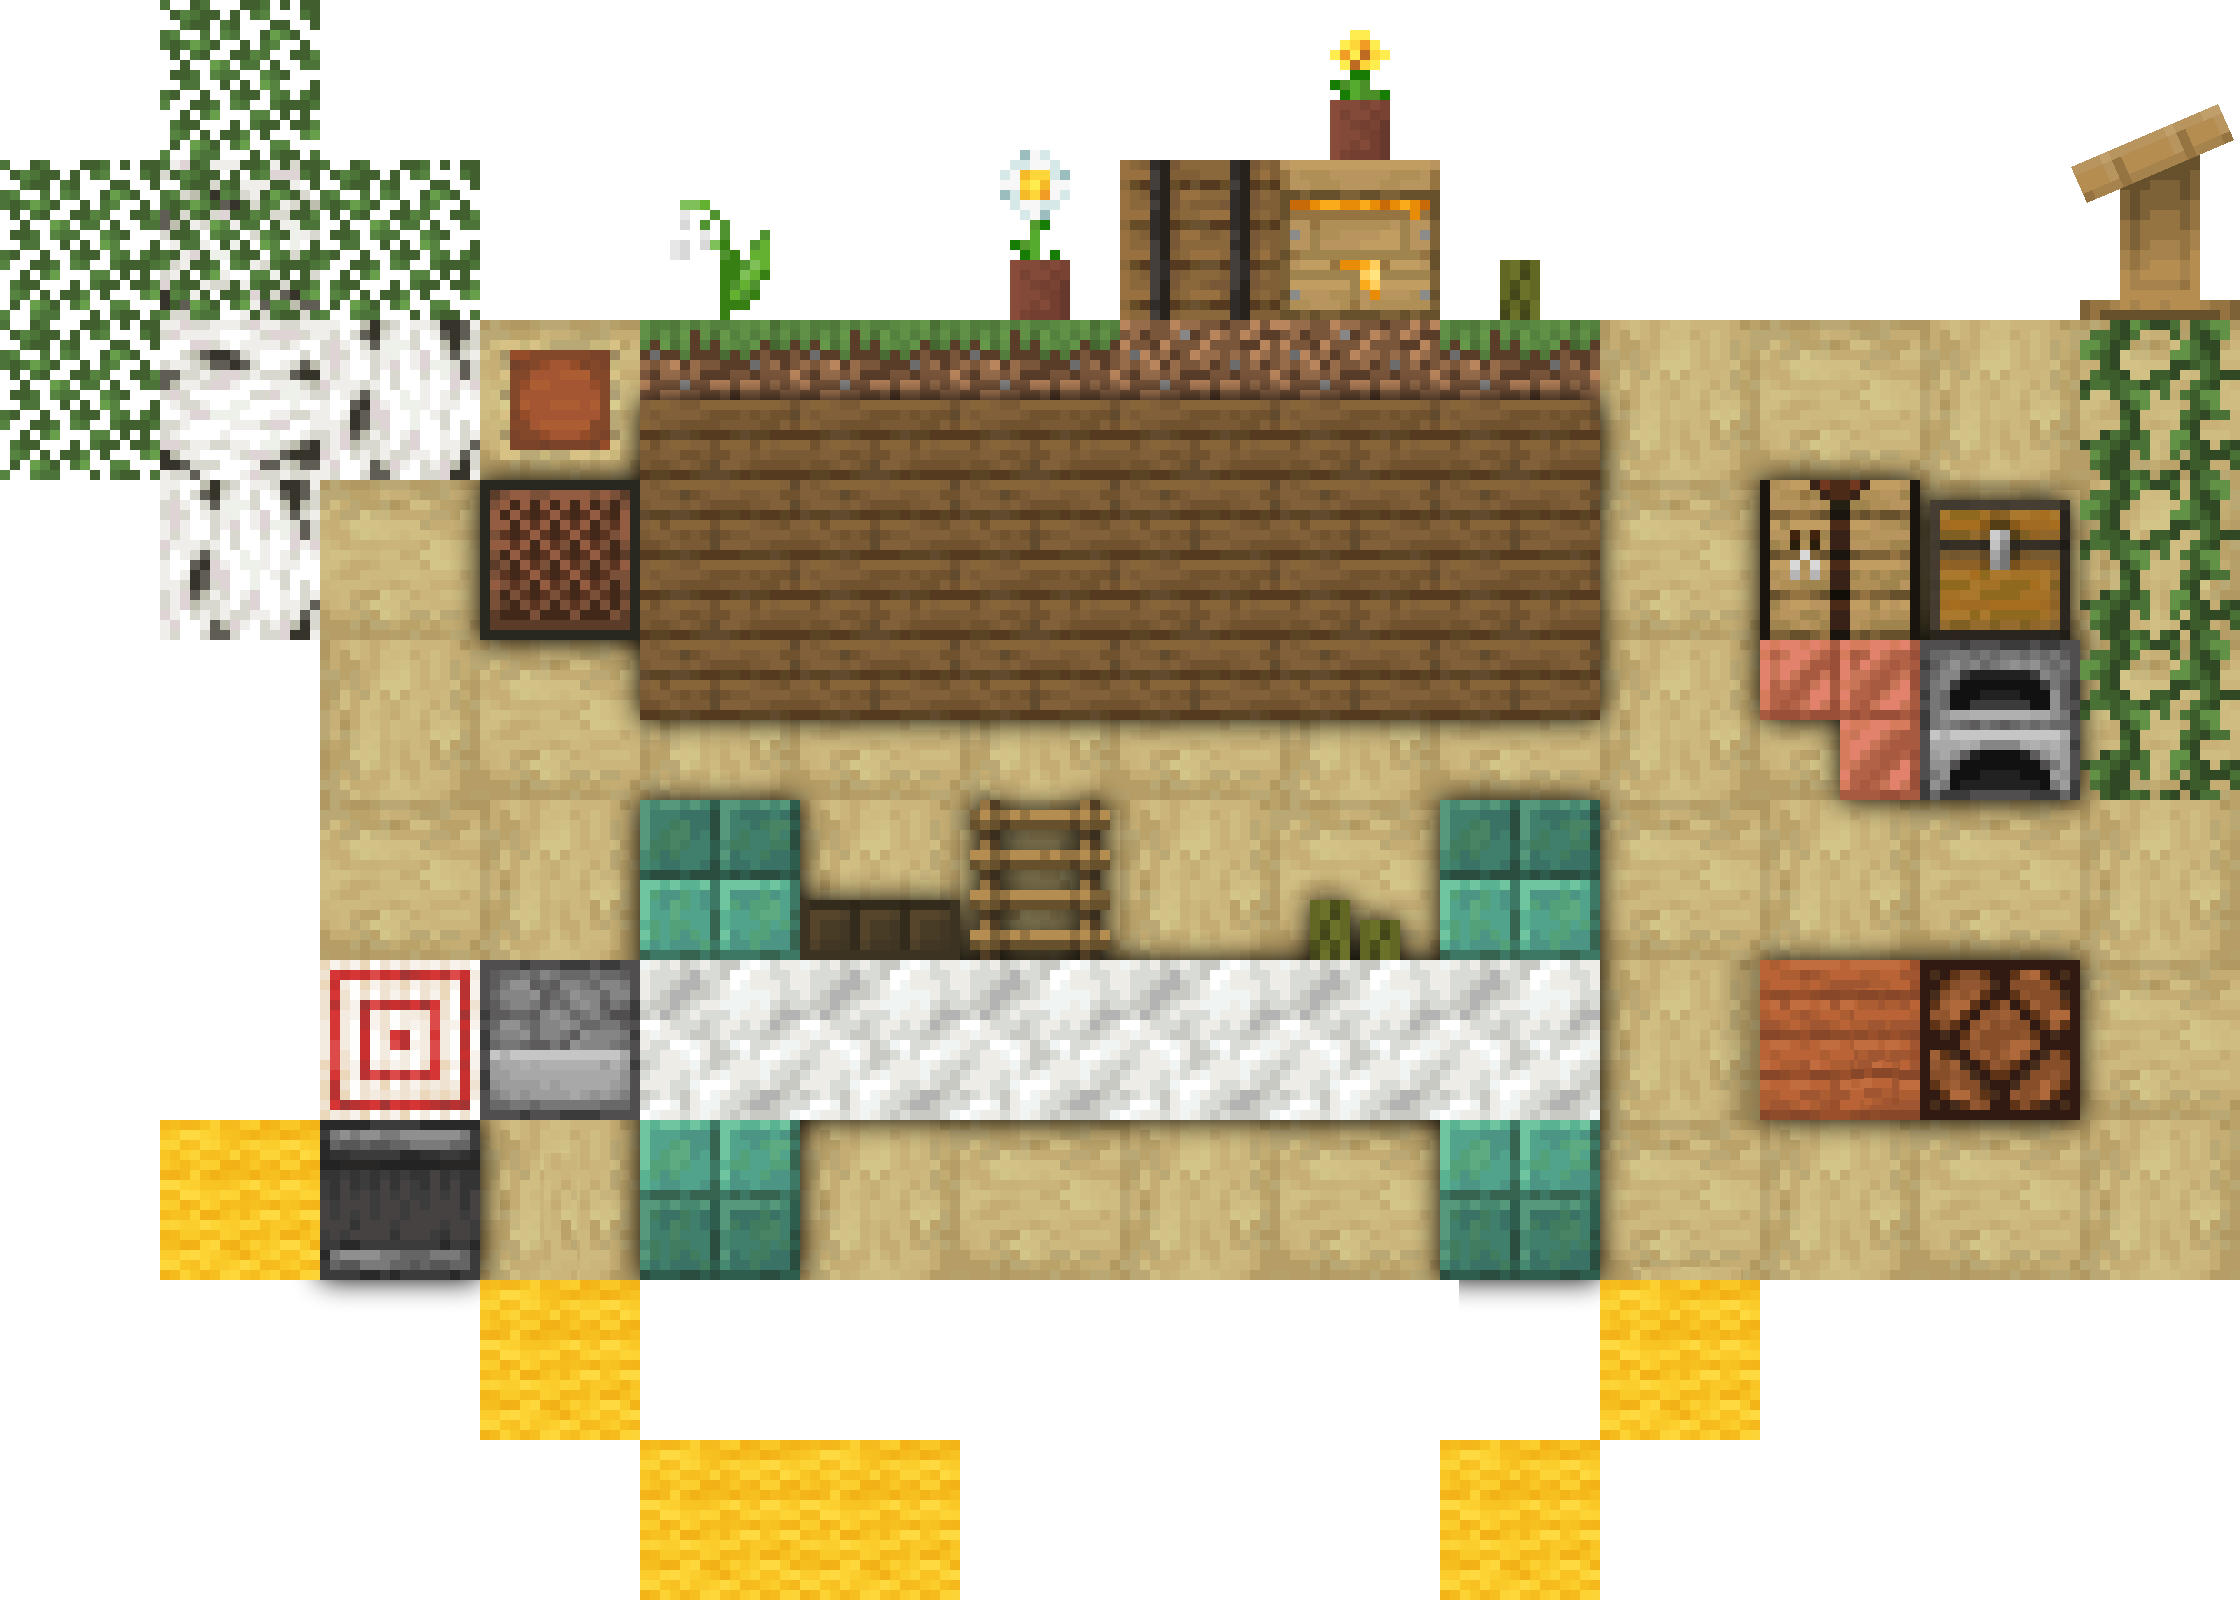
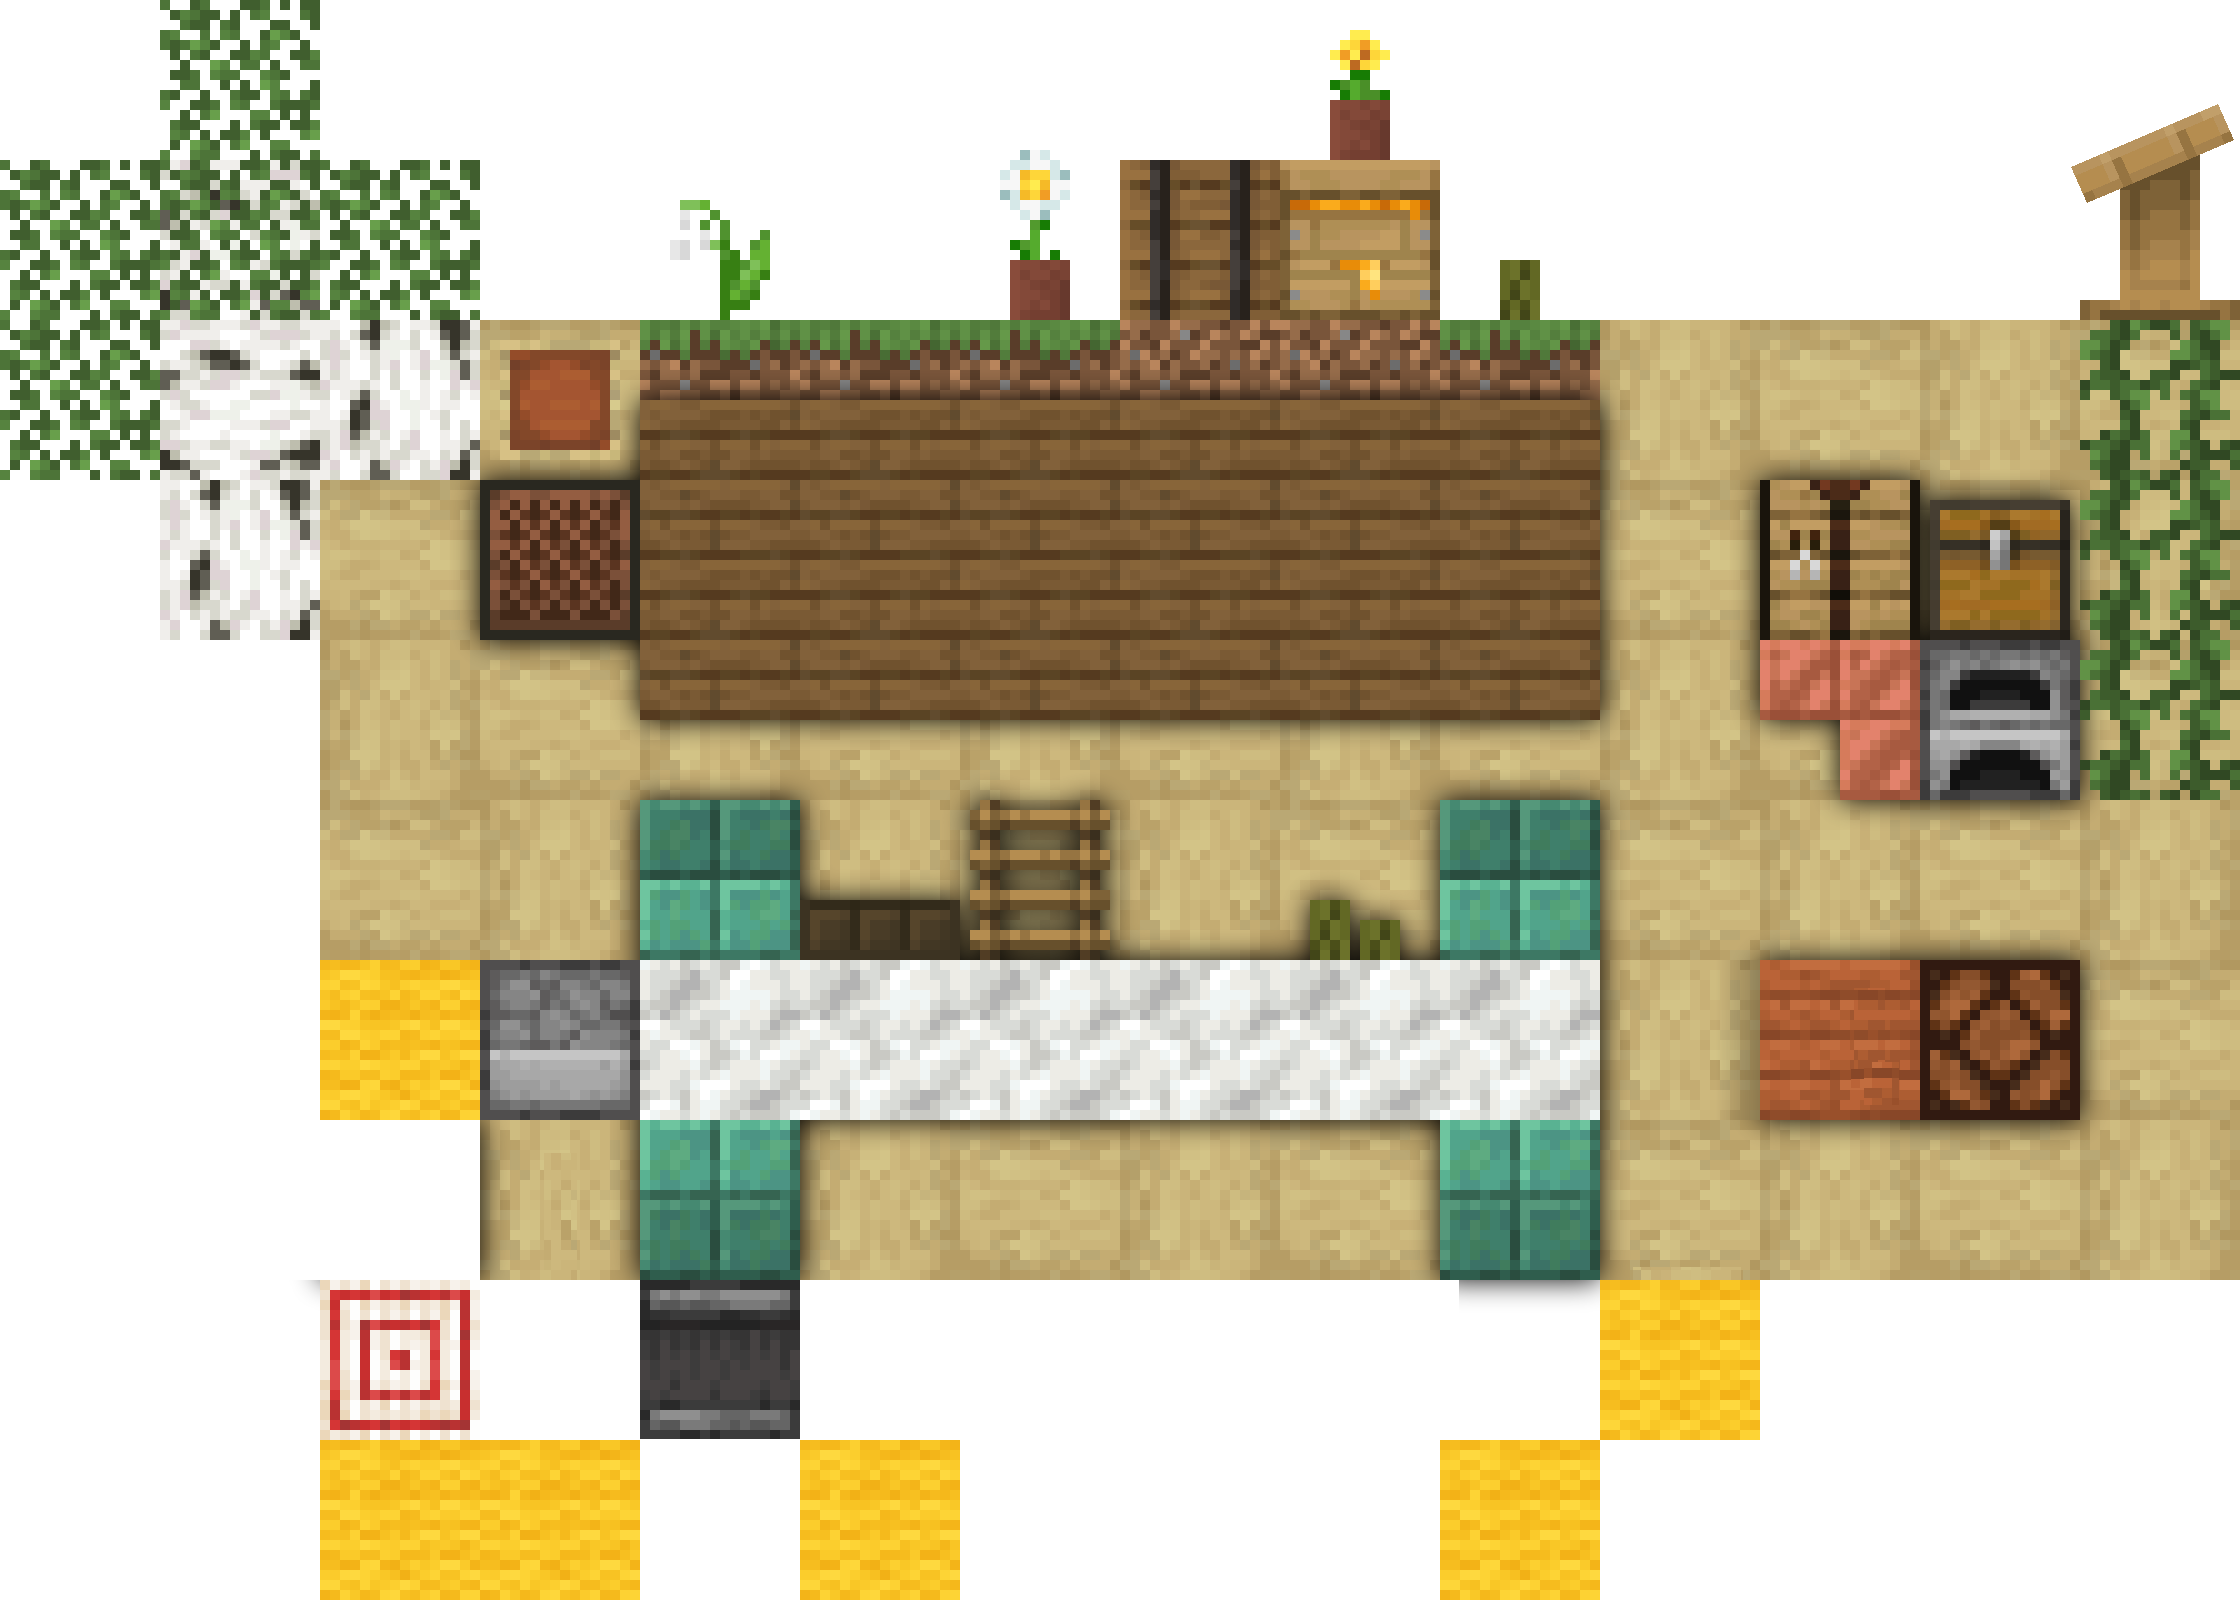
Start animation work

Changed region(s): [[0.0625, 0.5938, 0.375, 1.0]]

diff --git a/src/main/java/me/melonboy10/midi2building/GeneratorApplication.java b/src/main/java/me/melonboy10/midi2building/GeneratorApplication.java
@@ -1,35 +1,33 @@
 package me.melonboy10.midi2building;
 
+import javafx.animation.KeyFrame;
+import javafx.animation.Timeline;
+import javafx.animation.Transition;
+import javafx.animation.TranslateTransition;
 import javafx.application.Application;
-import javafx.event.ActionEvent;
-import javafx.event.EventHandler;
 import javafx.geometry.HPos;
 import javafx.geometry.VPos;
 import javafx.scene.Scene;
-import javafx.scene.canvas.Canvas;
-import javafx.scene.control.Button;
-import javafx.scene.control.Label;
 import javafx.scene.image.Image;
 import javafx.scene.image.ImageView;
 import javafx.scene.input.MouseEvent;
 import javafx.scene.layout.ColumnConstraints;
 import javafx.scene.layout.GridPane;
-import javafx.scene.layout.HBox;
 import javafx.scene.layout.RowConstraints;
 import javafx.scene.paint.Color;
 import javafx.stage.Stage;
 import javafx.stage.StageStyle;
+import javafx.util.Duration;
 
-import java.awt.event.ActionListener;
-import java.io.FileInputStream;
-import java.io.IOException;
+import java.util.concurrent.atomic.AtomicReference;
 
-import static me.melonboy10.midi2building.ResourceManager.*;
+import static me.melonboy10.midi2building.ResourceManager.BlockAtlas;
+import static me.melonboy10.midi2building.ResourceManager.imageScale;
+import static me.melonboy10.midi2building.ResourceManager.backgroundImage;
 
 public class GeneratorApplication extends Application {
 
     public static final int scale = 4;
-
 
     @Override
     public void init() throws Exception {
@@ -39,59 +37,95 @@ public class GeneratorApplication extends Application {
     @Override
     public void start(Stage stage) throws Exception {
         stage.setTitle("Midi2Building Generator");
-        stage.setWidth(backgroundImage.getWidth() / ResourceManager.imageScale * scale);
-        stage.setHeight(backgroundImage.getHeight() / ResourceManager.imageScale * scale);
+        stage.setWidth(backgroundImage.getWidth() / imageScale * scale);
+        stage.setHeight(backgroundImage.getHeight() / imageScale * scale);
         stage.initStyle(StageStyle.TRANSPARENT);
 
-
-
-        GridPane parent = new GridPane();
-        //parent.getRowConstraints().add(new RowConstraints(backgroundImage.getHeight() / ResourceManager.imageScale * scale / 28));
+        GridPane gridPane = new GridPane();
+        //gridPane.getRowConstraints().add(new RowConstraints(backgroundImage.getHeight() / imageScale * scale / 28));
         for (int i = 0; i < 14; i++) {
-            parent.getColumnConstraints().add(new ColumnConstraints(backgroundImage.getWidth() / ResourceManager.imageScale * scale / 14));
+            gridPane.getColumnConstraints().add(new ColumnConstraints(backgroundImage.getWidth() / imageScale * scale / 14));
         }
         for (int i = 0; i < 10; i++) {
-            parent.getRowConstraints().add(new RowConstraints(backgroundImage.getHeight() / ResourceManager.imageScale * scale / 10));
+            gridPane.getRowConstraints().add(new RowConstraints(backgroundImage.getHeight() / imageScale * scale / 10));
         }
-        Scene scene = new Scene(parent);
+        //Makes window dragable
+        AtomicReference<Double> xOffset = new AtomicReference<>((double) 0);
+        AtomicReference<Double> yOffset = new AtomicReference<>((double) 0);
+        gridPane.setOnMousePressed(event -> {
+            xOffset.set(stage.getX() - event.getScreenX());
+            yOffset.set(stage.getY() - event.getScreenY());
+        });
+        gridPane.setOnMouseDragged(mouseEvent -> {
+            stage.setX(mouseEvent.getScreenX() + xOffset.get());
+            stage.setY(mouseEvent.getScreenY() + yOffset.get());
+        });
+
+        Scene scene = new Scene(gridPane);
         scene.setFill(Color.TRANSPARENT);
         stage.setScene(scene);
-
 
         //Background Code
         ImageView background = new ImageView();
 
         background.setImage(backgroundImage);
         background.setPreserveRatio(true);
-        background.setFitWidth(backgroundImage.getWidth()/ ResourceManager.imageScale * scale);
+        background.setFitWidth(backgroundImage.getWidth()/ imageScale * scale);
 
-        parent.add(background,0,0);
-        parent.setGridLinesVisible(true);
+        gridPane.add(background,0,0);
+//        gridPane.setGridLinesVisible(true);
         GridPane.setValignment(background, VPos.TOP);
 
+        // Begin Toggle Elements
+        ToggleableCanvas lever        = new ToggleableCanvas(BlockAtlas.LEVER         ,false);
+        ToggleableCanvas lamp         = new ToggleableCanvas(BlockAtlas.LAMP          ,false);
+        ToggleableCanvas sideTorch    = new ToggleableCanvas(BlockAtlas.SIDE_TORCH    ,true);
+        ToggleableCanvas dot          = new ToggleableCanvas(BlockAtlas.REDSTONE_DOT  ,true);
+        ToggleableCanvas repeater1    = new ToggleableCanvas(BlockAtlas.REPEATER_ONE  ,true);
+        ToggleableCanvas repeater2    = new ToggleableCanvas(BlockAtlas.REPEATER_ONE  ,true);
+        ToggleableCanvas repeater_two = new ToggleableCanvas(BlockAtlas.REPEATER_TWO  ,false);
+        ToggleableCanvas redstoneLine = new ToggleableCanvas(BlockAtlas.REDSTONE_LINE ,false);
+        ToggleableCanvas bottomTorch  = new ToggleableCanvas(BlockAtlas.BOTTOM_TORCH  ,true);
 
-        ToggleableCanvas lever = new ToggleableCanvas(BlockAtlas.LEVER,false);
-        lever.addEventFilter(MouseEvent.MOUSE_CLICKED,leverClicked);
+        ImageView pistonArm = ResourceManager.readImageView("src/main/resources/gui/PistonHead.png");
 
-        ToggleableCanvas lamp = new ToggleableCanvas(BlockAtlas.LAMP,false);
-        ToggleableCanvas sideTorch = new ToggleableCanvas(BlockAtlas.SIDE_TORCH,true);
-        ToggleableCanvas dot = new ToggleableCanvas(BlockAtlas.REDSTONE_DOT,true);
-        ToggleableCanvas repeater1 = new ToggleableCanvas(BlockAtlas.REPEATER_ONE,true);
-        ToggleableCanvas repeater2 = new ToggleableCanvas(BlockAtlas.REPEATER_ONE,true);
-        ToggleableCanvas repeaterTwoTick = new ToggleableCanvas(BlockAtlas.REPEATER_TWO,true);
-        ToggleableCanvas redstoneLine = new ToggleableCanvas(BlockAtlas.REDSTONE_LINE,false);
-        ToggleableCanvas bottomTorch = new ToggleableCanvas(BlockAtlas.BOTTOM_TORCH,false);
+        lever.addEventFilter(MouseEvent.MOUSE_CLICKED, mouseEvent -> {
+            lever.toggle();
+            Timeline timeline = new Timeline(
+                new KeyFrame(Duration.millis(0),   actionEvent -> {lamp        .toggle();}),
+                new KeyFrame(Duration.millis(100), actionEvent -> {sideTorch   .toggle();}),
+                new KeyFrame(Duration.millis(200), actionEvent -> {dot         .toggle();}),
+                new KeyFrame(Duration.millis(300), actionEvent -> {repeater1   .toggle();}),
+                new KeyFrame(Duration.millis(400), actionEvent -> {repeater2   .toggle();}),
+                new KeyFrame(Duration.millis(500), actionEvent -> {
+                    TranslateTransition translateTransition = new TranslateTransition(Duration.millis(100), pistonArm);
+                    translateTransition.setFromX(60);
+                    translateTransition.setToX(20);
+                    translateTransition.play();
+                }),
+                new KeyFrame(Duration.millis(600), actionEvent -> {repeater_two.toggle();}),
+                new KeyFrame(Duration.millis(700), actionEvent -> {redstoneLine.toggle();}),
+                new KeyFrame(Duration.millis(800), actionEvent -> {bottomTorch .toggle();}),
+                new KeyFrame(Duration.millis(800), actionEvent -> {repeater_two.toggle();}),
+                new KeyFrame(Duration.millis(900), actionEvent -> {redstoneLine.toggle();}),
+                new KeyFrame(Duration.millis(1000),actionEvent -> {bottomTorch .toggle();})
+                );
+            timeline.play();
 
-        parent.add(lever,11,6);
-
-        parent.add(lamp,12,6);
-        parent.add(sideTorch,10,6);
-        parent.add(dot,10,7);
-        parent.add(repeater1,9,8);
-        parent.add(repeater2,5,8);
-        parent.add(repeaterTwoTick,3,8);
-        parent.add(redstoneLine,2,8);
-        parent.add(bottomTorch,2,7);
+//            for (ToggleableCanvas toggleable : ToggleableCanvas.toggleables) {
+//                toggleable.toggle();
+//            }
+        });
+        gridPane.add(pistonArm, 4, 8);
+        gridPane.add(lever,11,6);
+        gridPane.add(lamp,12,6);
+        gridPane.add(sideTorch,10,6);
+        gridPane.add(dot,10,7);
+        gridPane.add(repeater1,9,8);
+        gridPane.add(repeater2,5,8);
+        gridPane.add(repeater_two,3,8);
+        gridPane.add(bottomTorch,2,7);
+        gridPane.add(redstoneLine,2,8);
 
         for (ToggleableCanvas toggleable : ToggleableCanvas.toggleables) {
             GridPane.setHalignment(toggleable, HPos.LEFT);
@@ -100,15 +134,6 @@ public class GeneratorApplication extends Application {
 
         stage.show();
     }
-
-    EventHandler<MouseEvent> leverClicked = mouseEvent -> {
-        for (ToggleableCanvas toggleable : ToggleableCanvas.toggleables) {
-            toggleable.toggle();
-            if (toggleable.getBlockAtlas() == BlockAtlas.REDSTONE_LINE){
-                toggleable.toggle();
-            }
-        }
-    };
 
     @Override
     public void stop() throws Exception {

diff --git a/src/main/java/me/melonboy10/midi2building/ToggleableCanvas.java b/src/main/java/me/melonboy10/midi2building/ToggleableCanvas.java
@@ -33,7 +33,6 @@ public class ToggleableCanvas extends Canvas {
     }
 
     public void toggle(){
-        System.out.println("isOn = " + isOn);
         if (isOn) {
             turnOff();
         } else {
@@ -41,14 +40,13 @@ public class ToggleableCanvas extends Canvas {
         }
     }
 
+    //cache on and off textures
     public void turnOn(){
-        System.out.println("WOAH, IT'S ON NOW!");
         getImageFromAtlas(this,atlas, blockAtlas,isOn);
         isOn = true;
     }
 
     public void turnOff(){
-        System.out.println("OH NO, IT'S OFF NOW!");
         getImageFromAtlas(this,atlas, blockAtlas,isOn);
         isOn = false;
     }
